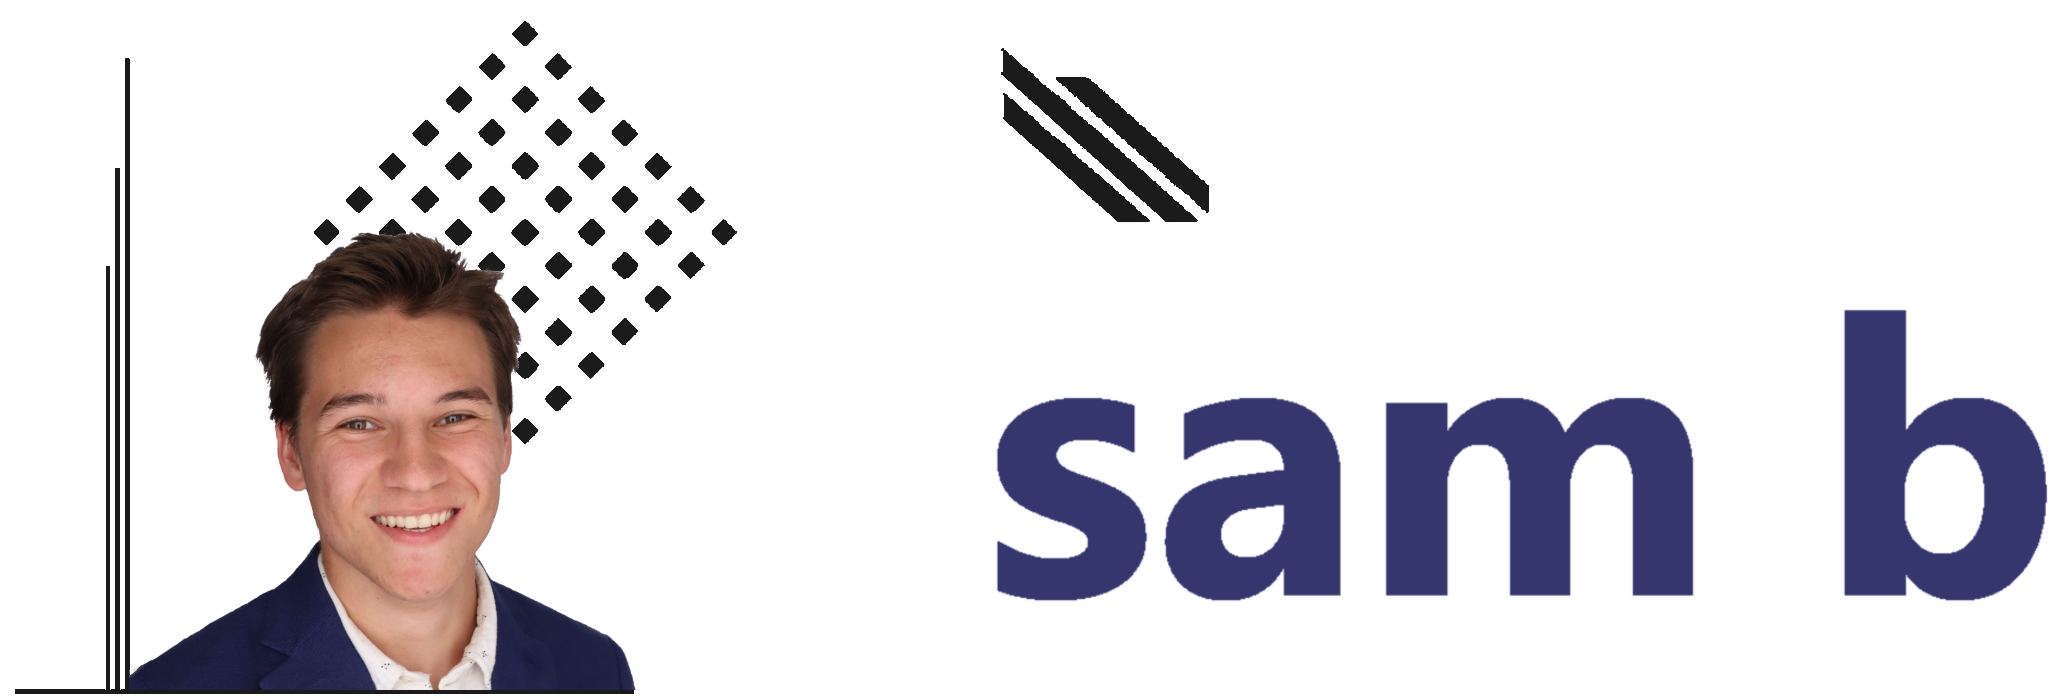
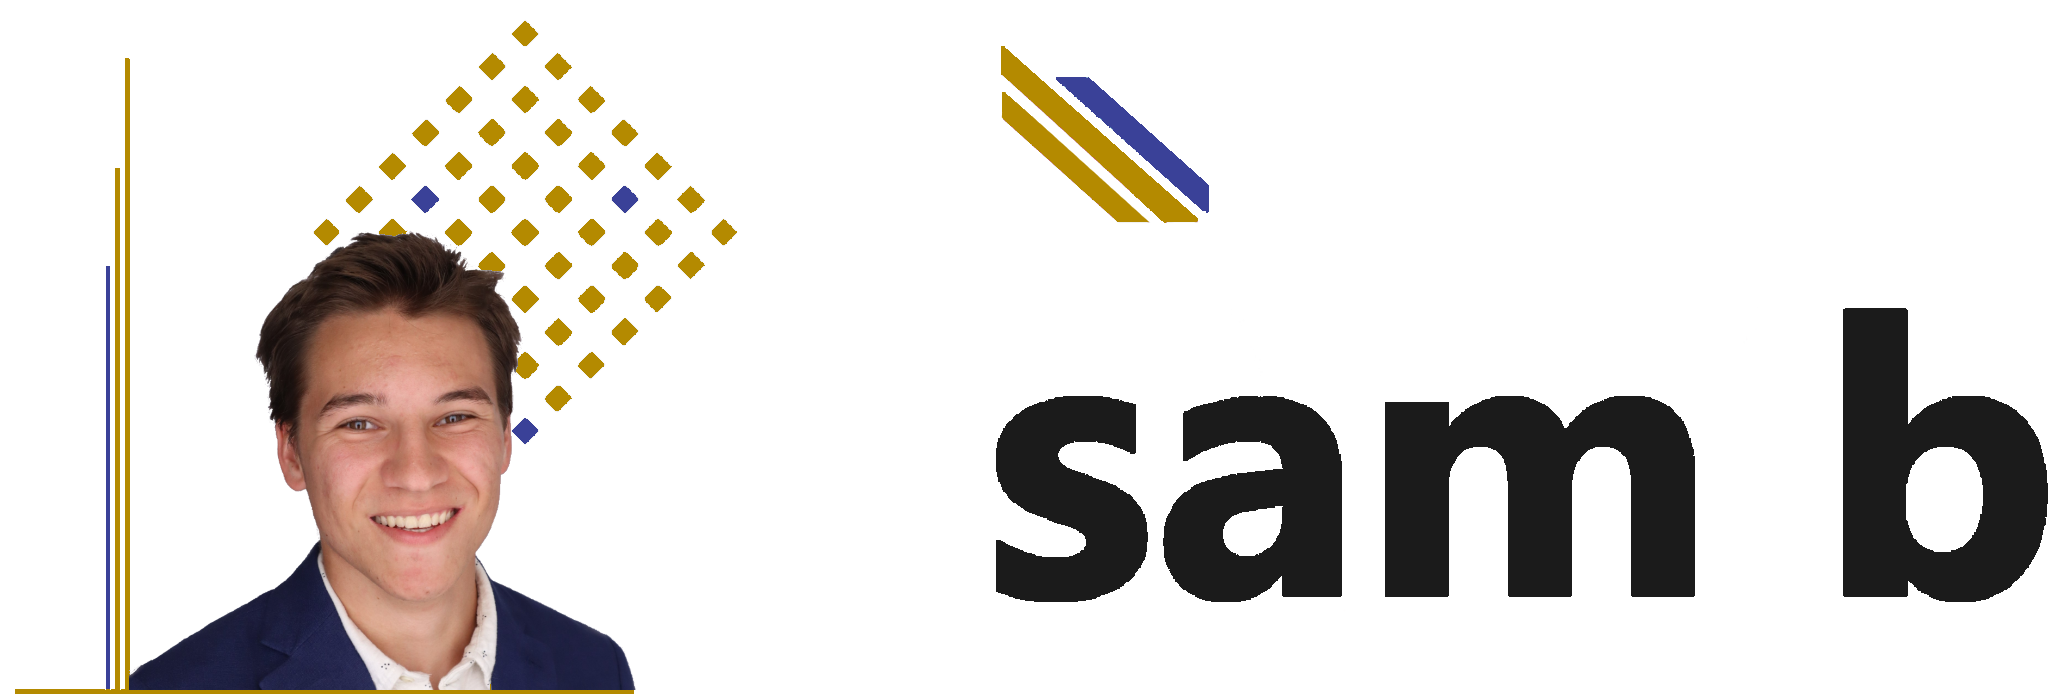
visual design adjustments

diff --git a/script.js b/script.js
@@ -48,8 +48,8 @@ function darkMode() {
     appearanceButton.style.backgroundColor = lightColor;
     appearanceButton.style.border = "3px solid #1b1b1b";
 
-    var buttonImage = document.getElementById("button-image");
-    buttonImage.src = darkButtonImg;
+    var appearanceButtonImage = document.getElementById("appearance-button-image");
+    appearanceButtonImage.src = darkButtonImg;
 
     var coverImage = document.getElementById("cover-image");
     coverImage.src = darkCoverImage;
@@ -69,8 +69,8 @@ function lightMode() {
     appearanceButton.style.backgroundColor = darkColor;
     appearanceButton.style.border = "3px solid #bebebe";
 
-    var buttonImage = document.getElementById("button-image");
-    buttonImage.src = lightButtonImg;
+    var appearanceButtonImage = document.getElementById("appearance-button-image");
+    appearanceButtonImage.src = lightButtonImg;
 
     var coverImage = document.getElementById("cover-image");
     coverImage.src = lightCoverImage;
@@ -115,5 +115,47 @@ document.addEventListener('DOMContentLoaded', function () {
     }
 
     window.addEventListener('scroll', onScroll);
-    onScroll(); // Check if the element is in view on page load
+    onScroll();
+});
+
+document.addEventListener('DOMContentLoaded', function () {
+    const button = document.getElementById('appearance-button');
+    const image = document.getElementById('appearance-button-image');
+
+    // Flag to track mouse position
+    let mouseX = 0;
+    let mouseY = 0;
+
+    // Update mouse coordinates on mouse move
+    document.addEventListener('mousemove', function (event) {
+        mouseX = event.clientX;
+        mouseY = event.clientY;
+    });
+
+    // Function to check if mouse is over the button
+    function isMouseOverElement(element) {
+        const hoveredElement = document.elementFromPoint(mouseX, mouseY);
+        return element.contains(hoveredElement);
+    }
+
+    // Function to force a check of the mouse position
+    function forceCheckMousePosition() {
+        if (isMouseOverElement(button)) {
+            if (appearanceMode == "dark") {
+                image.src = 'image_assets/dark_button_hover.png'; // Change image source
+            }
+            else {
+                image.src = 'image_assets/light_button_hover.png'; // Change image source
+            }
+        } else {
+            if (appearanceMode == "dark") {
+                image.src = 'image_assets/dark_button.png'; // Change image source
+            }
+            else {
+                image.src = 'image_assets/light_button.png'; // Change image source
+            }
+        }
+    }
+    
+    setInterval(forceCheckMousePosition, 1);
 });

diff --git a/style.css b/style.css
@@ -27,27 +27,44 @@ body,html {
 }
 
 #cover-banner{
+  display: flex;
+  justify-content: space-between;
+  align-items: center;
   background-color: #bebebe;
   position: fixed;
   width: 100%;
-  height: 70px;
-  padding-left: 40px;
-  padding-top: 20px;
+  height: 100px;
   z-index: 2;
+  
 }
 
-#button-container{
-  float: right;
-  padding-right: 60px;
+#home-button-container{
+  margin-left: 20px;
+}
+#home-button{
+  height: 80px;
+  width: 80px;
+  border-radius: 50%;
+  cursor: pointer;
+  transition: transform 0.1s;
+  z-index: 2;
+  background-color: #bebebe;
+}
+#home-button-image{
+  width: 100%;
+  max-width: 80px;
+  max-height: 80px;
 }
 
+#appearance-button-container{
+  margin-right: 20px;
+}
 #appearance-button{
   width: 50px;
   height: 50px;
   border: 3px solid #1b1b1b;
   padding: 10px 10px;
   border-radius: 50%;
-  font-size: 16px;
   cursor: pointer;
   transition: transform 0.1s;
   z-index: 2;
@@ -56,7 +73,7 @@ body,html {
 #appearance-button:active {
   transform: scale(0.92);
 }
-#appearance-button img#button-image {
+#appearance-button-image {
   width: 100%;
   max-width: 75px;
   max-height: 75px;
@@ -86,14 +103,14 @@ body,html {
 }
 
 #title-container{
-  height: 400px;
-  color: #bebebe;
+  display: flex;
+  justify-content: center;
+  align-items: center;
+  margin-top: 50px;
+  height: 150px;
+  color: #ccc;
   /*border: 3px solid #ccc;*/
-  padding-left: 400px;
   font-size: 100px;
-}
-#second-line{
-  padding-left: 100px;
 }
 
 #horizontal-line-container{
@@ -108,7 +125,7 @@ body,html {
   width: 0%;
   height: 5px;
   transition: 1s;
-  background-color: #34366d;
+  background-color: #3a4198;
 }
 #horizontal-line.animated{
   width: 85%;
@@ -128,7 +145,7 @@ body,html {
 .lower-panel {
   display: flex;
   flex: 1;
-  border: 3px solid #bebebe;
+  border: 3px solid #b48a00;
   height: 750px;
   padding: 20px;
   margin: 30px;

diff --git a/index.html b/index.html
@@ -3,7 +3,8 @@
 <head>
     <meta charset="UTF-8">
     <meta name="viewport" content="width=device-width, initial-scale=1.0">
-    <title>Document</title>
+    <title>Home | Sam Brothers - Software Developer</title>
+    <link rel="icon" href="image_assets/website_icon.png" type="image/png">
     <link rel="stylesheet" href="style.css">
     <link rel="preconnect" href="https://fonts.googleapis.com">
     <link rel="preconnect" href="https://fonts.gstatic.com" crossorigin>
@@ -11,11 +12,15 @@
 </head>
 
 <body id="website-body">
-    <div id="cover-banner">    
-        <img src="image_assets/sam_logo.png" id="banner-logo" height="40px"></img>
-        <div id="button-container">
+    <div id="cover-banner">   
+        <div id="home-button-container">
+            <button id="home-button">
+                <img src="image_assets/website_icon.png" id="home-button-image"></img>
+            </button>
+        </div> 
+        <div id="appearance-button-container">
             <button id="appearance-button">
-                <img src="image_assets/dark_button.png" alt="Button Image" id="button-image"></img>
+                <img src="image_assets/dark_button.png" alt="Button Image" id="appearance-button-image"></img>
             </button>
         </div>
     </div>
@@ -24,8 +29,7 @@
         <canvas id="cover-canvas" width="1300" height="350"></canvas>
     </div>    
     <div class="text-container" id="title-container">
-        <div id="first-line"> Hi,</div>
-        <div id="second-line"> I'm Sam</div>
+        <p>Software Developer</p>
     </div>
     <div id="horizontal-line-container">
         <div id="horizontal-line"></div>
